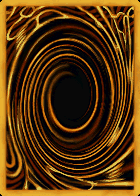
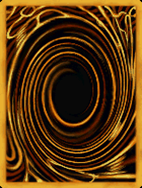
Adds multiple card themes, makes card images larger

diff --git a/game.js b/game.js
@@ -1,19 +1,45 @@
-import StartScene from './StartScene.js';
-import ChangeLogScene from './ChangeLogScene.js';
+import StartScene from './scenes/StartScene.js';
+import ChangeLogScene from './scenes/ChangeLogScene.js';
+import OptionsScene from './scenes/OptionsScene.js';
 
 let cardData = [
-    { id: 1, name: "Elemental HERO Avian", image: "card1.png" },
-    { id: 2, name: "Elemental HERO Burstinatrix", image: "card2.png" },
-    { id: 3, name: "Elemental HERO Clayman", image: "card3.png" },
-    { id: 4, name: "Elemental HERO Sparkman", image: "card4.png" },
-    { id: 1, name: "Elemental HERO Avian", image: "card1.png" },
-    { id: 2, name: "Elemental HERO Burstinatrix", image: "card2.png" },
-    { id: 3, name: "Elemental HERO Clayman", image: "card3.png" },
-    { id: 4, name: "Elemental HERO Sparkman", image: "card4.png" },
-    // Add more cards as needed
+    {
+        theme: 'Elemental HERO',
+        cards: [
+            { id: 6310, name: "Elemental HERO Avian", image: "6310.png" },
+            { id: 6311, name: "Elemental HERO Burstinatrix", image: "6311.png" },
+            { id: 6312, name: "Elemental HERO Clayman", image: "6312.png" },
+            { id: 6313, name: "Elemental HERO Sparkman", image: "6313.png" },
+        ]
+    },
+    {
+        theme: 'Magnet Warriors',
+        cards: [
+            { id: 4744, name: "Alpha The Magnet Warrior", image: "4744.png" },
+            { id: 4763, name: "Beta The Magnet Warrior", image: "4763.png" },
+            { id: 4792, name: "Gamma The Magnet Warrior", image: "4792.png" },
+            { id: 5002, name: "Valkyrion the Magna Warrior", image: "5002.png" },
+        ]
+    },
+    {
+        theme: 'Bakura',
+        cards: [
+            { id: 5219, name: "The Portrait's Secret", image: "5219.png" },
+            { id: 5220, name: "The Gross Ghost of Fled Dreams", image: "5220.png" },
+            { id: 5221, name: "Headless Knight", image: "5221.png" },
+            { id: 5222, name: "Dark Necrofear", image: "5222.png" }
+        ]
+    },
+    {
+        theme: 'XYZ Dragon Cannon',
+        cards: [
+            { id: 5504, name: "X-Head Cannon", image: "5504.png" },
+            { id: 5552, name: "Y-Dragon Head", image: "5552.png" },
+            { id: 5555, name: "Z-Metal Tank", image: "5555.png" },
+            { id: 5556, name: "XYZ-Dragon Cannon", image: "5556.png" }
+        ]
+    }
 ];
-
-cardData = shuffle(cardData);
 
 let cards = [];
 let cardBack;
@@ -22,7 +48,7 @@ let score = 0;
 let scoreText;
 let timeLeft = 20
 let timerText;
-const cardScaling = 0.8
+const cardScaling = 0.7
 
 function flipCard(card) {
     this.tweens.add({
@@ -49,7 +75,7 @@ function checkMatch() {
         secondCard.disableInteractive();
         firstCard = null;
         secondCard = null;
-        this.time.delayedCall(1000, () => {checkForVictory.call(this)});
+        this.time.delayedCall(1000, () => { checkForVictory.call(this) });
     } else {
         this.time.delayedCall(1000, () => {
             score -= 5;
@@ -86,12 +112,24 @@ class MainGameScene extends Phaser.Scene {
     constructor() {
         super({ key: 'MainGameScene'});
     }
+
+    init(data) {
+        this.theme = data.theme;
+    }
     
      preload() {
         this.load.image('cardBack', '/assets/card_back.png');
-        cardData.forEach(card => {
+        let myCardData = '';
+        cardData.forEach((themeSet, index) => {
+            if (themeSet.theme == this.theme)
+                myCardData = cardData[index];
+        });
+        let myCards = myCardData.cards;
+        myCards = [...myCards].concat([...myCards])
+        myCards.forEach(card => {
             this.load.image(card.id, `/assets/${card.image}`);
         });
+        cardData = shuffle(myCards);
     }
     
      create() {
@@ -150,7 +188,7 @@ const config = {
         mode: Phaser.Scale.FIT,
         autoCenter: Phaser.Scale.CENTER_BOTH
     },
-    scene: [StartScene, ChangeLogScene, MainGameScene]
+    scene: [StartScene, OptionsScene, ChangeLogScene, MainGameScene]
 };
 
 const game = new Phaser.Game(config);

diff --git a/scenes/OptionsScene.js b/scenes/OptionsScene.js
@@ -1,0 +1,102 @@
+export default class OptionsScene extends Phaser.Scene {
+    constructor() {
+        super({ key: 'OptionsScene' });
+    }
+
+    preload() {
+        this.load.image('buttonEHERO', './assets/buttonEHERO.png');
+        this.load.image('buttonMagnets', './assets/buttonMagnets.png');
+        this.load.image('buttonBakura', './assets/buttonBakura.png');
+        this.load.image('buttonXYZ', './assets/buttonXYZ.png');
+        this.load.image('backButton', './assets/backButton.png');
+    }
+
+    create() {
+        this.add.text(400, 80, `Options`, { fontFamily: 'Calibri', fontSize: '64px', fill:'#fff', fontWeight: 'bold' }).setOrigin(0.5)
+        const buttonEHERO = this.add.sprite(250, 210, 'buttonEHERO').setInteractive();
+        const buttonMagnets = this.add.sprite(550, 210, 'buttonMagnets').setInteractive();
+        const buttonBakura = this.add.sprite(250, 350, 'buttonBakura').setInteractive();
+        const buttonXYZ = this.add.sprite(550, 350, 'buttonXYZ').setInteractive();
+        const backButton = this.add.sprite(400, 500, 'backButton').setInteractive();
+        let buttonThemeScale = 1.2;
+        let backButtonScale = 0.70;
+        buttonEHERO.setScale(buttonThemeScale);
+        buttonMagnets.setScale(buttonThemeScale);
+        buttonBakura.setScale(buttonThemeScale);
+        buttonXYZ.setScale(buttonThemeScale);
+        backButton.setScale(backButtonScale);
+
+        buttonEHERO.on('pointerdown', () => {
+            this.tweens.add({
+                targets: buttonEHERO,
+                scaleX: buttonThemeScale * 0.92,
+                scaleY: buttonThemeScale * 0.92,
+                duration: 150,
+                yoyo: true,
+                onComplete: () => {
+                    this.scene.start('MainGameScene', {
+                        theme: 'Elemental HERO'
+                    });
+                }
+            });
+        });
+
+        buttonMagnets.on('pointerdown', () => {
+            this.tweens.add({
+                targets: buttonMagnets,
+                scaleX: buttonThemeScale * 0.92,
+                scaleY: buttonThemeScale * 0.92,
+                duration: 150,
+                yoyo: true,
+                onComplete: () => {
+                    this.scene.start('MainGameScene', {
+                        theme: 'Magnet Warriors'
+                    });
+                }
+            });
+        });
+
+        buttonBakura.on('pointerdown', () => {
+            this.tweens.add({
+                targets: buttonBakura,
+                scaleX: buttonThemeScale * 0.92,
+                scaleY: buttonThemeScale * 0.92,
+                duration: 150,
+                yoyo: true,
+                onComplete: () => {
+                    this.scene.start('MainGameScene', {
+                        theme: 'Bakura'
+                    });
+                }
+            });
+        });
+
+        buttonXYZ.on('pointerdown', () => {
+            this.tweens.add({
+                targets: buttonXYZ,
+                scaleX: buttonThemeScale * 0.92,
+                scaleY: buttonThemeScale * 0.92,
+                duration: 150,
+                yoyo: true,
+                onComplete: () => {
+                    this.scene.start('MainGameScene', {
+                        theme: 'XYZ Dragon Cannon'
+                    });
+                }
+            });
+        });
+    
+        backButton.on('pointerdown', () => {
+            this.tweens.add({
+                targets: backButton,
+                scaleX: backButtonScale * 0.92,
+                scaleY: backButtonScale * 0.92,
+                duration: 150,
+                yoyo: true,
+                onComplete: () => {
+                    this.scene.start('StartScene');
+                }
+            });
+        });
+    }
+}

diff --git a/scenes/ChangeLogScene.js b/scenes/ChangeLogScene.js
@@ -4,7 +4,7 @@ export default class ChangeLogScene extends Phaser.Scene {
     }
 
     preload() {
-        this.load.image('backButton', 'assets/backButton.png');
+        this.load.image('backButton', './assets/backButton.png');
     }
 
     create() {
@@ -31,6 +31,10 @@ export default class ChangeLogScene extends Phaser.Scene {
 
 const changeList = [
     {
+        'date': '2024-09-17',
+        'changes': ['Added OptionsScene with options for different card themes', 'Increased card image size']
+    },
+    {
         'date': '2024-09-16',
         'changes': ['Refactored StartScene and ChangeLogScene into their own files']
     },
@@ -51,11 +55,21 @@ const changeList = [
 
 function createChangeLog(scene) {
     let changeLog = ''
-    changeList.forEach(item => {
-        changeLog += `\n${item.date}\n`
-        item.changes.forEach(change => {
+    let i = 0;
+    let j = 0
+    while (j < 4) {
+        changeLog += `\n${changeList[i].date}\n`
+        changeList[i].changes.forEach(change => {
             changeLog += `• ${change}\n`
+            j++;
         });
-    });
+        i++;
+    }
+    // for (let i = 0; i < 4; i++) {
+    //     changeLog += `\n${changeList[i].date}\n`
+    //     changeList[i].changes.forEach(change => {
+    //         changeLog += `• ${change}\n`
+    //     });
+    // }
     scene.add.text(400, 280, changeLog, { fontFamily: 'Calibri', fontSize: '24px', fill: '#fff', wordWrap: true }).setOrigin(0.5)
 }

diff --git a/scenes/StartScene.js b/scenes/StartScene.js
@@ -25,7 +25,7 @@ export default class StartScene extends Phaser.Scene {
                 duration: 150,
                 yoyo: true,
                 onComplete: () => {
-                    this.scene.start('MainGameScene');
+                    this.scene.start('OptionsScene');
                 }
             });
         });
